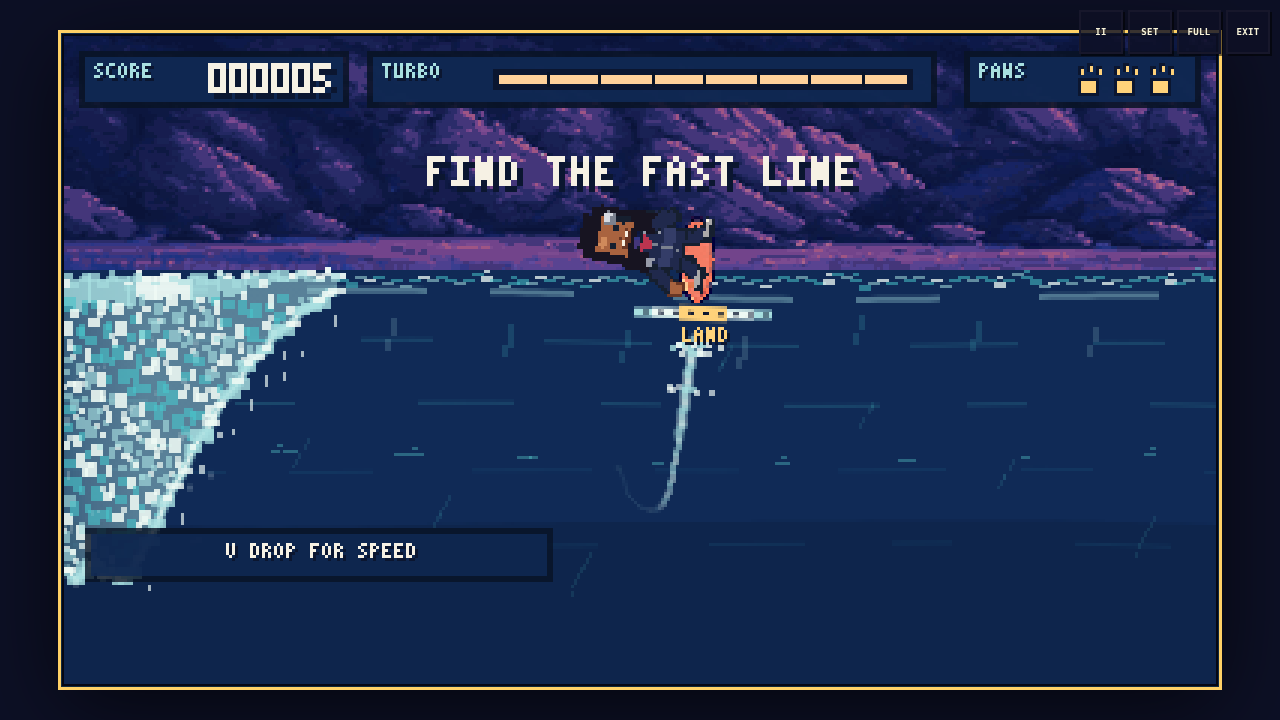
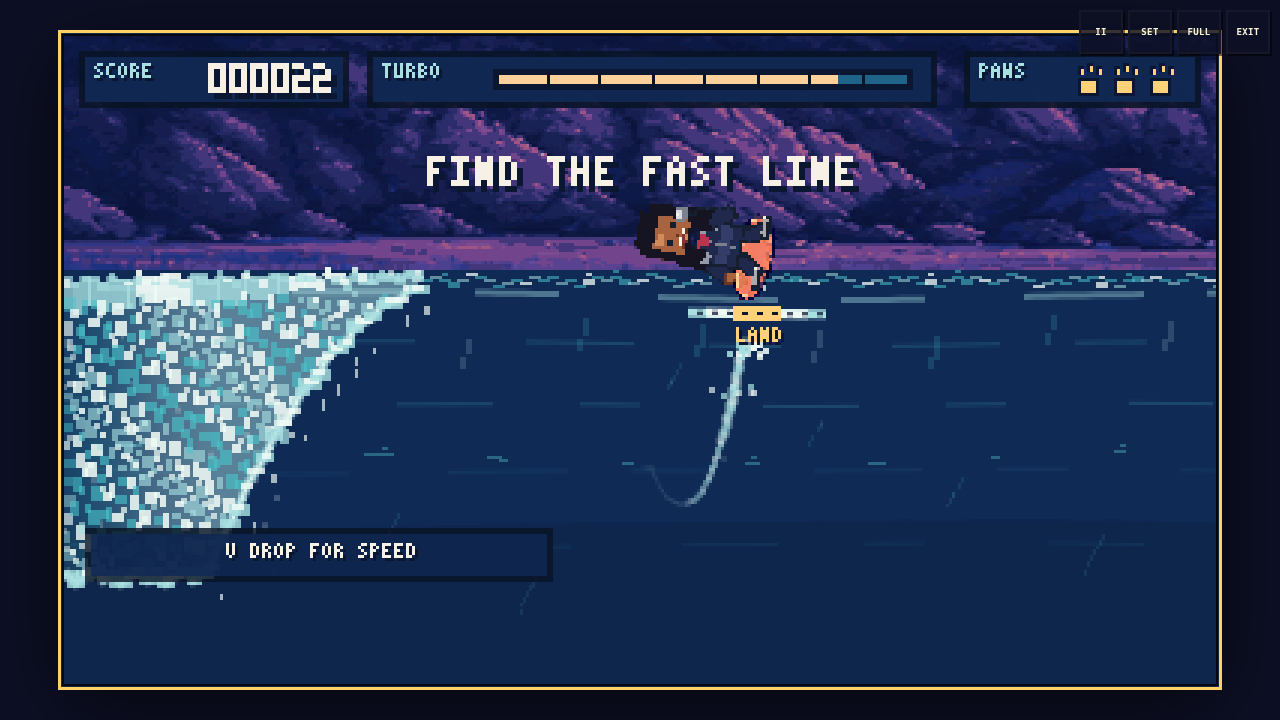
fix: polish SimplyTerrell and turbo wake

diff --git a/js/simply-terrell.js b/js/simply-terrell.js
@@ -57,6 +57,7 @@ function drawSimplyTerrellFallback(ctx, frame, palette) {
   const locHighlight = "#553426";
   const skin = "#a9633f";
   const skinLight = "#d08a5b";
+  const mouth = "#85323d";
   const navy = "#20294c";
   const navyLight = "#343d68";
   const shoulder = "#969aa8";
@@ -103,16 +104,18 @@ function drawSimplyTerrellFallback(ctx, frame, palette) {
   // Free gesturing arm.
   const gestureUp = /victory|Star|Release|Cooking/i.test(frame);
   const gestureOut = /Snap|Cutback|wobble|wipeout|Spiral/i.test(frame);
-  const handX = bodyX - (gestureOut ? 19 : 15);
-  const handY = bodyY + (gestureUp ? -10 : gestureOut ? 5 : 12);
+  const handX = bodyX - (gestureOut ? 16 : 12);
+  const handY = bodyY + (gestureUp ? -8 : gestureOut ? 6 : 11);
   ctx.fillStyle = ink;
-  ctx.fillRect(Math.min(bodyX - 10, handX), Math.min(bodyY + 3, handY), 7, Math.abs(handY - bodyY - 3) + 7);
+  ctx.fillRect(Math.min(bodyX - 10, handX), Math.min(bodyY + 3, handY), 8, Math.abs(handY - bodyY - 3) + 7);
   ctx.fillStyle = navy;
-  ctx.fillRect(Math.min(bodyX - 9, handX + 1), Math.min(bodyY + 4, handY + 1), 5, Math.abs(handY - bodyY - 3) + 5);
+  ctx.fillRect(Math.min(bodyX - 9, handX + 1), Math.min(bodyY + 4, handY + 1), 6, Math.abs(handY - bodyY - 3) + 5);
+  ctx.fillStyle = ink;
+  ctx.fillRect(handX - 1, handY - 1, 6, 6);
   ctx.fillStyle = skin;
-  ctx.fillRect(handX, handY, 5, 5);
+  ctx.fillRect(handX, handY, 4, 4);
   ctx.fillStyle = skinLight;
-  ctx.fillRect(handX + 1, handY, 3, 1);
+  ctx.fillRect(handX + 1, handY, 2, 1);
 
   // Microphone arm stays close to the face in every state.
   ctx.fillStyle = ink;
@@ -120,13 +123,13 @@ function drawSimplyTerrellFallback(ctx, frame, palette) {
   ctx.fillStyle = navy;
   ctx.fillRect(bodyX + 9, bodyY + 4, 5, 13);
   ctx.fillStyle = skin;
-  ctx.fillRect(headX + 6, headY + 13, 5, 5);
+  ctx.fillRect(headX + 8, headY + 16, 5, 5);
   ctx.fillStyle = ink;
-  ctx.fillRect(headX + 8, headY + 4, 3, 12);
+  ctx.fillRect(headX + 10, headY + 12, 3, 10);
   ctx.fillStyle = silver;
-  ctx.fillRect(headX + 7, headY + 2, 5, 4);
+  ctx.fillRect(headX + 8, headY + 9, 5, 4);
   ctx.fillStyle = "#ffffff";
-  ctx.fillRect(headX + 8, headY + 2, 2, 1);
+  ctx.fillRect(headX + 9, headY + 9, 2, 1);
 
   // Loc silhouette, face, and warm comedian expression.
   ctx.fillStyle = locs;
@@ -134,20 +137,23 @@ function drawSimplyTerrellFallback(ctx, frame, palette) {
   ctx.fillRect(headX - 14, headY + 4, 5, 24);
   ctx.fillRect(headX + 10, headY + 3, 5, 23);
   ctx.fillRect(headX - 9, headY - 6, 18, 6);
+  ctx.fillStyle = locHighlight;
+  ctx.fillRect(headX - 11, headY, 3, 18);
+  ctx.fillRect(headX + 8, headY - 1, 3, 20);
   ctx.fillStyle = skin;
   ctx.fillRect(headX - 8, headY + 2, 16, 15);
   ctx.fillStyle = skinLight;
   ctx.fillRect(headX - 6, headY + 3, 5, 3);
-  ctx.fillStyle = locHighlight;
-  ctx.fillRect(headX - 11, headY, 3, 18);
-  ctx.fillRect(headX + 8, headY - 1, 3, 20);
-  ctx.fillRect(headX - 6, headY - 4, 3, 9);
   ctx.fillStyle = ink;
   ctx.fillRect(headX - 5, headY + 8, 2, 2);
   ctx.fillRect(headX + 3, headY + 8, 2, 2);
-  ctx.fillRect(headX - 2, headY + 13, 6, 2);
+  ctx.fillRect(headX - 3, headY + 13, 7, 3);
   ctx.fillStyle = "#f3ddc2";
-  ctx.fillRect(headX, headY + 13, 3, 1);
+  ctx.fillRect(headX - 2, headY + 13, 5, 1);
+  ctx.fillStyle = mouth;
+  ctx.fillRect(headX - 1, headY + 14, 3, 1);
+  ctx.fillStyle = skinLight;
+  ctx.fillRect(headX, headY + 15, 1, 1);
 }
 
 function snapAngle(angle = 0) {

diff --git a/js/turbo-presentation.js b/js/turbo-presentation.js
@@ -369,21 +369,38 @@ function drawWakeRibbon(ctx, state, simulation, palette, settings) {
   if (intensity <= 0 || !ACTIVE_RIDE_STATES.has(player.state) || player.animalMount) return;
   const cameraX = Number(simulation.camera?.worldX) || 0;
   const direction = Math.sign(player.motionDirection ?? player.travelDirection ?? 1) || 1;
-  const x = Math.round(player.worldX - cameraX - direction * 12);
-  const y = Math.round(simulation.wave.ridingY(player.worldX, player.face) + 3);
-  const length = Math.round(10 + intensity * (simulation.board?.id === "moonLog" ? 36 : 27));
+  const x = Math.round(player.worldX - cameraX);
+  const y = Math.round(simulation.wave.ridingY(player.worldX, player.face) + 1);
+  const tangent = Number(player.boardAngle) || simulation.wave.slopeAt(player.worldX, player.face);
+  const contactX = -direction * 12;
+  const length = Math.round(8 + intensity * (simulation.board?.id === "moonLog" ? 28 : 20));
   const accent = boardAccent(simulation.board?.id, palette);
+  ctx.save();
+  ctx.translate(x, y);
+  ctx.rotate(tangent);
   ctx.globalAlpha = 0.45 + intensity * 0.35;
   ctx.fillStyle = palette.foam;
-  ctx.fillRect(x - direction * length, y, direction * length, 2);
+  ctx.fillRect(contactX - direction * length, 0, direction * length, 2);
   ctx.fillStyle = accent;
-  ctx.fillRect(x - direction * Math.round(length * 0.78), y + 3, direction * Math.round(length * 0.78), 1);
+  ctx.fillRect(
+    contactX - direction * Math.round(length * 0.72),
+    3,
+    direction * Math.round(length * 0.72),
+    1,
+  );
   const accents = settings.reducedMotion || settings.qualityProfile === "mobile" ? 2 : 4;
   for (let index = 0; index < accents; index += 1) {
     const offset = 5 + index * Math.max(4, Math.floor(length / accents));
-    drawBoardAccentShape(ctx, simulation.board?.id, x - direction * offset, y + 2 + index % 2, direction, accent);
+    drawBoardAccentShape(
+      ctx,
+      simulation.board?.id,
+      contactX - direction * offset,
+      2 + index % 2,
+      direction,
+      accent,
+    );
   }
-  ctx.globalAlpha = 1;
+  ctx.restore();
 }
 
 function drawRings(ctx, state, simulation, palette, settings) {

diff --git a/tests/turbo-presentation.test.js b/tests/turbo-presentation.test.js
@@ -200,6 +200,22 @@ test("Reduced Flash substitutes gold outlines for full-burn white rings", () => 
   assert.ok(reduced.styles.has(PALETTES.standard.gold));
 });
 
+test("Turbo contact ribbon follows the canonical board tangent instead of drawing a flat water seam", () => {
+  const simulation = beginRiding();
+  Object.assign(simulation.player, {
+    turboActive: true,
+    turboTier: "surge",
+    turboBurnProgress: 0.68,
+    boardAngle: 0.37,
+  });
+  const state = createTurboPresentationState();
+  const ctx = new ContextProbe();
+  drawTurboStageEffects(ctx, state, simulation, PALETTES.standard, {});
+  assert.ok(ctx.rotations.some((value) => Math.abs(value - 0.37) < 1e-9));
+  assert.ok(ctx.translations.some(([x, y]) => Number.isFinite(x) && Number.isFinite(y)));
+  assert.equal(ctx.depth, 0);
+});
+
 function simulationSnapshot(simulation) {
   const player = simulation.player;
   return {
@@ -241,6 +257,8 @@ class ContextProbe {
     this.clipState = "unclipped";
     this.drawCalls = 0;
     this.styles = new Set();
+    this.rotations = [];
+    this.translations = [];
   }
 
   snapshot() {
@@ -266,9 +284,15 @@ class ContextProbe {
   }
 
   setTransform(...values) { this.transform = `set:${values.join(",")}`; }
-  translate(x, y) { this.transform += `:t${x},${y}`; }
+  translate(x, y) {
+    this.translations.push([x, y]);
+    this.transform += `:t${x},${y}`;
+  }
   scale(x, y) { this.transform += `:s${x},${y}`; }
-  rotate(value) { this.transform += `:r${value}`; }
+  rotate(value) {
+    this.rotations.push(value);
+    this.transform += `:r${value}`;
+  }
   fillRect() {
     this.drawCalls += 1;
     this.styles.add(this.fillStyle);

diff --git a/tests/simply-terrell.test.js b/tests/simply-terrell.test.js
@@ -58,7 +58,7 @@ test("SimplyTerrell fallback keeps locs, tracksuit, red collar, skin, and microp
 
   assert.deepEqual(dispatched.commands, direct.commands);
   assert.equal(direct.depth, 0);
-  for (const color of ["#171421", "#20294c", "#969aa8", "#bb344f", "#a9633f", "#d8dbe2"]) {
+  for (const color of ["#171421", "#20294c", "#969aa8", "#bb344f", "#a9633f", "#85323d", "#d8dbe2"]) {
     assert.ok(direct.colors.has(color), `fallback landmark ${color}`);
   }
   assert.ok(

diff --git a/js/config.js b/js/config.js
@@ -1,6 +1,6 @@
 export const LOGICAL_WIDTH = 384;
 export const LOGICAL_HEIGHT = 216;
-export const GAME_VERSION = "2.6.0";
+export const GAME_VERSION = "2.6.1";
 export const FIXED_STEP = 1 / 120;
 export const MAX_FRAME_DELTA = 0.1;
 

diff --git a/tools/art/build-simply-terrell-atlas.py b/tools/art/build-simply-terrell-atlas.py
@@ -47,6 +47,7 @@ P = {
     "skin_dark": (105, 55, 37, 255),
     "skin": (169, 99, 63, 255),
     "skin_light": (208, 138, 91, 255),
+    "mouth": (133, 50, 61, 255),
     "navy_dark": (26, 33, 65, 255),
     "navy": (32, 41, 76, 255),
     "navy_light": (52, 61, 104, 255),
@@ -126,23 +127,20 @@ def draw_frame(name: str, index: int) -> Image.Image:
     shoulder_left = (body_x - 8, body_top + 4)
     gesture = specification["gesture"]
     gesture_end = {
-        "high": (max(7, body_x - 16), max(6, body_top - 14)),
-        "wide": (max(10, body_x - 23), body_top + 2),
-        "low": (max(8, body_x - 17), min(55, body_top + 19)),
-        "talk": (max(8, body_x - 19), body_top + 8),
-        "rest": (max(10, body_x - 14), body_top + 14),
+        "high": (max(9, body_x - 14), max(8, body_top - 12)),
+        "wide": (max(12, body_x - 20), body_top + 3),
+        "low": (max(10, body_x - 14), min(53, body_top + 17)),
+        "talk": (max(10, body_x - 16), body_top + 8),
+        "rest": (max(12, body_x - 12), body_top + 13),
     }[gesture]
-    elbow = (body_x - 13, round((body_top + gesture_end[1]) / 2) + 3)
+    elbow = (body_x - 12, round((body_top + 4 + gesture_end[1]) / 2) + 2)
     line(draw, [shoulder_left, elbow, gesture_end], P["ink"], P["navy"], 8, 5)
-    draw.rectangle((gesture_end[0] - 3, gesture_end[1] - 2,
-                    gesture_end[0] + 3, gesture_end[1] + 3), fill=P["skin_dark"])
     draw.rectangle((gesture_end[0] - 2, gesture_end[1] - 2,
-                    gesture_end[0] + 2, gesture_end[1] + 2), fill=P["skin"])
-    if gesture in {"high", "wide", "talk"}:
-        draw.line((gesture_end[0] - 3, gesture_end[1] - 3,
-                   gesture_end[0] - 5, gesture_end[1] - 5), fill=P["skin"], width=2)
-        draw.line((gesture_end[0] + 2, gesture_end[1] - 2,
-                   gesture_end[0] + 4, gesture_end[1] - 4), fill=P["skin"], width=2)
+                    gesture_end[0] + 2, gesture_end[1] + 2), fill=P["skin_dark"])
+    draw.rectangle((gesture_end[0] - 1, gesture_end[1] - 1,
+                    gesture_end[0] + 2, gesture_end[1] + 1), fill=P["skin"])
+    draw.rectangle((gesture_end[0] + 1, gesture_end[1] + 1,
+                    gesture_end[0] + 3, gesture_end[1] + 2), fill=P["skin"])
 
     # Loose navy tracksuit torso with gray shoulder panels and red shirt peek.
     draw.polygon([
@@ -169,7 +167,7 @@ def draw_frame(name: str, index: int) -> Image.Image:
 
     # Bent microphone arm; this never disappears in trick or recovery frames.
     shoulder_right = (body_x + 8, body_top + 4)
-    mic_hand = (head_x + 8, head_top + 14)
+    mic_hand = (head_x + 10, head_top + 18)
     mic_elbow = (body_x + 14, body_top + 12)
     line(draw, [shoulder_right, mic_elbow, mic_hand], P["ink"], P["navy"], 8, 5)
     draw.rectangle((mic_hand[0] - 2, mic_hand[1] - 2,
@@ -198,17 +196,19 @@ def draw_frame(name: str, index: int) -> Image.Image:
     draw.rectangle((head_x + 3, head_top + 9, head_x + 5, head_top + 10), fill=P["ink"])
     draw.point((head_x, head_top + 12), fill=P["skin_dark"])
     draw.rectangle((head_x - 4, head_top + 14, head_x + 4, head_top + 16), fill=P["skin_dark"])
-    draw.rectangle((head_x - 2, head_top + 14, head_x + 3, head_top + 14), fill=P["white"])
+    draw.rectangle((head_x - 3, head_top + 14, head_x + 3, head_top + 14), fill=P["white"])
+    draw.rectangle((head_x - 2, head_top + 15, head_x + 2, head_top + 15), fill=P["mouth"])
+    draw.rectangle((head_x - 1, head_top + 16, head_x + 1, head_top + 16), fill=P["skin_light"])
 
     # One handheld microphone per frame, close enough to read at 0.76x.
     draw.line(
-        (mic_hand[0] + 1, mic_hand[1], head_x + 7, head_top + 7),
+        (mic_hand[0] + 1, mic_hand[1], head_x + 10, head_top + 14),
         fill=P["ink"],
         width=3,
     )
-    draw.rectangle((head_x + 5, head_top + 4, head_x + 10, head_top + 8), fill=P["silver_dark"])
-    draw.rectangle((head_x + 6, head_top + 4, head_x + 9, head_top + 6), fill=P["silver"])
-    draw.point((head_x + 7, head_top + 4), fill=P["white"])
+    draw.rectangle((head_x + 7, head_top + 10, head_x + 12, head_top + 14), fill=P["silver_dark"])
+    draw.rectangle((head_x + 8, head_top + 10, head_x + 11, head_top + 12), fill=P["silver"])
+    draw.point((head_x + 9, head_top + 10), fill=P["white"])
 
     if any(term in name for term in ("turbo", "Cooking", "victory")):
         draw.rectangle((55, 14 + (index % 3) * 5, 57, 16 + (index % 3) * 5), fill=P["spark"])
@@ -223,7 +223,7 @@ def validate_cell(name: str, cell: Image.Image) -> None:
     if not {pixel[3] for pixel in pixels}.issubset({0, 255}):
         raise SystemExit(f"{name}: semitransparent pixels")
     colors = {pixel for pixel in pixels if pixel[3]}
-    for required in ("navy", "shoulder", "red", "locs", "skin", "silver"):
+    for required in ("navy", "shoulder", "red", "locs", "skin", "mouth", "silver"):
         if P[required] not in colors:
             raise SystemExit(f"{name}: missing {required} landmark")
     if len(colors) > 20:

diff --git a/README.md b/README.md
@@ -100,7 +100,7 @@ npm run check
 git diff --check
 ```
 
-The native suite passes **322/322 tests** and the syntax gate checks **41 JavaScript modules**. New invariants cover the persistent Auto/Full/Mobile setting, touch-first Mobile resolution, sustained-frame-pressure adaptation, presentation-only density scaling, analog touch magnitude and multitouch independence, fullscreen-before-landscape-lock ordering, portrait gating and rotation resume, canonical board/path agreement, mirrored wakes, no front-facing wake, carried drop/climb energy, cutback timing, full-face traversal, shared Simple/Advanced aerial rotation and Turbo, qualified aerial tiers, the perfect-landing/scoop/preload/Turbo rebound chain, coherent stage-camera projection, exact stage/panorama ocean anchoring, presentation-free physics and spawning, camera-relative spawns, ocean-anchored sharks and lower-atmosphere traffic, contextual mount dismounts, whale water/collision anchors, SimplyTerrell's cosmetic-only character contract, and the visible package-version contract. The local gallery contains **143 deterministic 1280 x 720 captures**, including re-entry in all three conditions, while `docs/images/qa-world-camera` records real-input launch, apex, descent, touchdown, and post-landing frame sequences in both travel directions and Reduced Motion.
+The native suite passes **323/323 tests** and the syntax gate checks **41 JavaScript modules**. New invariants cover the persistent Auto/Full/Mobile setting, touch-first Mobile resolution, sustained-frame-pressure adaptation, presentation-only density scaling, analog touch magnitude and multitouch independence, fullscreen-before-landscape-lock ordering, portrait gating and rotation resume, canonical board/path agreement, mirrored wakes, no front-facing wake, carried drop/climb energy, cutback timing, full-face traversal, shared Simple/Advanced aerial rotation and Turbo, qualified aerial tiers, the perfect-landing/scoop/preload/Turbo rebound chain, coherent stage-camera projection, exact stage/panorama ocean anchoring, presentation-free physics and spawning, camera-relative spawns, ocean-anchored sharks and lower-atmosphere traffic, contextual mount dismounts, whale water/collision anchors, SimplyTerrell's cosmetic-only character contract, the tangent-aligned Turbo contact ribbon, and the visible package-version contract. The local gallery contains **143 deterministic 1280 x 720 captures**, including re-entry in all three conditions, while `docs/images/qa-world-camera` records real-input launch, apex, descent, touchdown, and post-landing frame sequences in both travel directions and Reduced Motion.
 
 ## Static deployment and integration
 

diff --git a/docs/TEST-RESULTS.md b/docs/TEST-RESULTS.md
@@ -12,7 +12,7 @@ npm run check
 git diff --check
 ```
 
-The current native Node run passed **322 tests with 0 failures**. `npm run check` parsed **41 JavaScript modules** successfully.
+The current native Node run passed **323 tests with 0 failures**. `npm run check` parsed **41 JavaScript modules** successfully.
 
 The current suite covers:
 

diff --git a/docs/QA.md b/docs/QA.md
@@ -14,7 +14,7 @@ npm run check
 git diff --check
 ```
 
-Current result: **322/322 tests pass** and **41 JavaScript modules pass syntax checking**.
+Current result: **323/323 tests pass** and **41 JavaScript modules pass syntax checking**.
 
 ## Browser capture matrix
 
